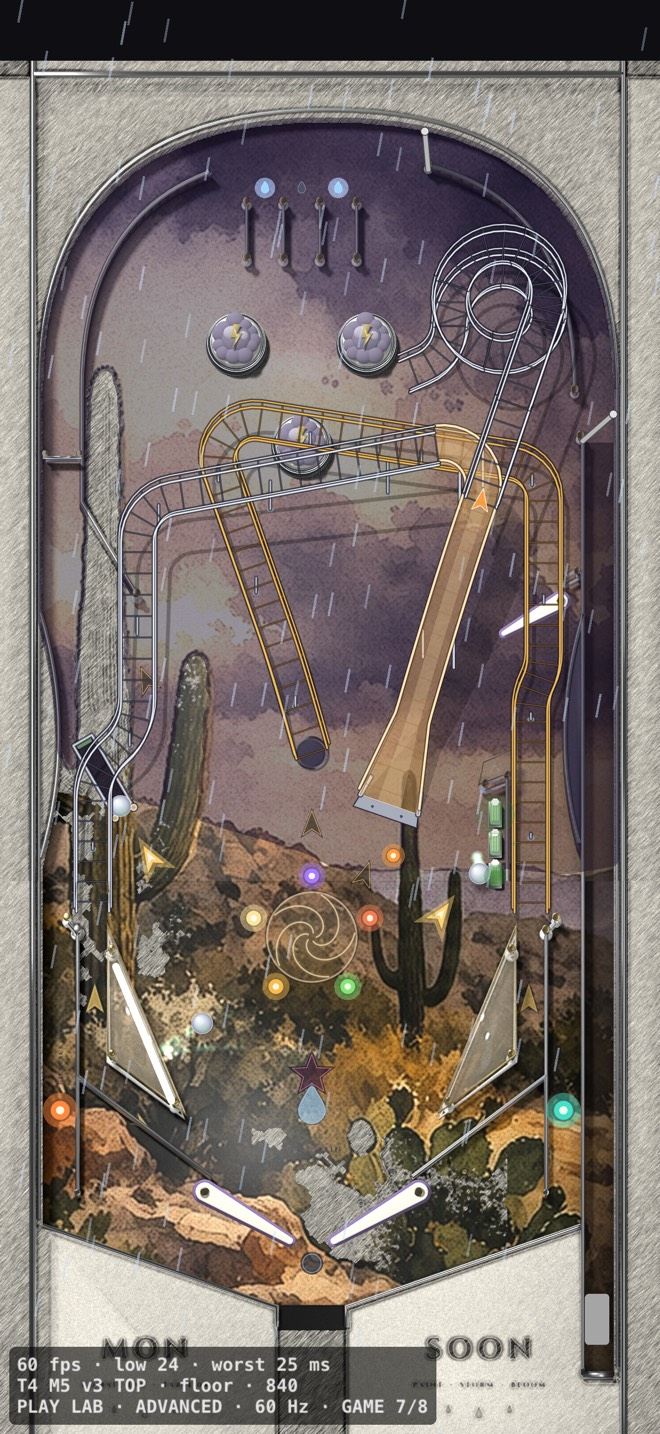
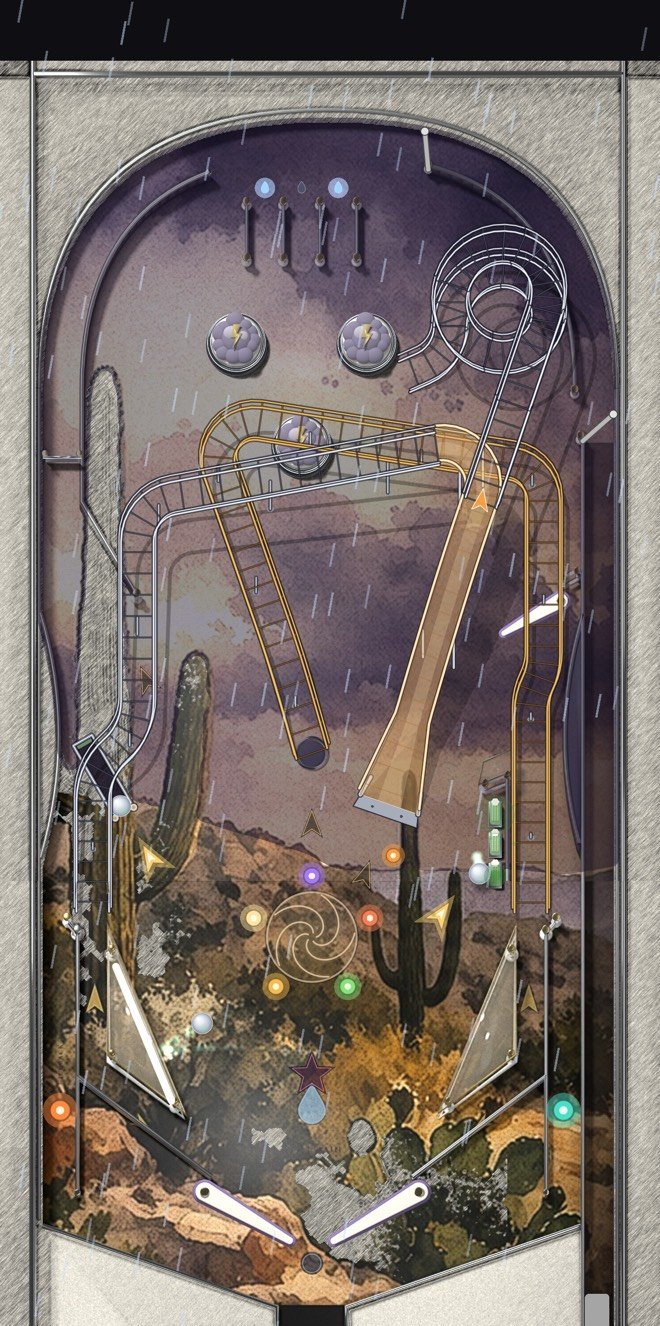
Hall of fame: crop the debug tag off the pictures
The lab screenshots carried the debug build tag (fps, build, PLAY LAB
line) in the bottom ~6 % of the frame, and the pictures ship in the
app. The four hof-*.jpg are cropped to 92.5 % of their height, and
tools/playlab_halloffame.py crops new pictures the same way (PIL, else
sips).

Claude-Session: https://claude.ai/code/session_01LZZuwhwfEftYSmahMAeEfo

diff --git a/tools/playlab_halloffame.py b/tools/playlab_halloffame.py
@@ -23,6 +23,9 @@ ROOT = os.path.dirname(os.path.dirname(os.path.abspath(__file__)))
 OUT_DIR = os.path.join(ROOT, "GreyInvasionPinball", "HallOfFame")
 OUT = os.path.join(OUT_DIR, "halloffame.json")
 SKILLS = ["beginner", "intermediate", "advanced", "expert"]
+# The lab screenshots carry the debug build tag (fps, build, PLAY LAB line) in the bottom ~6 % of the frame; the
+# picture ships in the app, so that strip is cropped off (2026-11-02, table agent). Keep 92.5 % of the height.
+KEEP_HEIGHT = 0.925
 
 
 def slug(table):
@@ -45,6 +48,28 @@ def picture_for(report_path, game):
     pick = next((c for c in caps if c.get("reason") == "gameEnd"), caps[-1])
     p = os.path.join(os.path.splitext(report_path)[0], pick.get("file", ""))
     return p if os.path.isfile(p) else None
+
+
+def crop_debug_strip(path):
+    """Crop the bottom (1 - KEEP_HEIGHT) of the picture, where the lab's debug tag sits. PIL if present, else sips."""
+    try:
+        from PIL import Image
+        im = Image.open(path).convert("RGB")
+        w, h = im.size
+        im.crop((0, 0, w, round(h * KEEP_HEIGHT))).save(path, quality=85)
+        return
+    except ImportError:
+        pass
+    if shutil.which("sips"):
+        out = subprocess.run(["sips", "-g", "pixelHeight", "-g", "pixelWidth", path],
+                             capture_output=True, text=True).stdout
+        dims = {k: int(v) for k, v in (ln.split(":") for ln in out.splitlines()[1:] if ":" in ln)}
+        h, w = dims.get("pixelHeight", 0), dims.get("pixelWidth", 0)
+        if h and w:
+            subprocess.run(["sips", "--cropToHeightWidth", str(round(h * KEEP_HEIGHT)), str(w),
+                            "--cropOffset", "0", "0", path], stdout=subprocess.DEVNULL, stderr=subprocess.DEVNULL)
+            return
+    print(f"  warning: couldn't crop the debug strip off {os.path.basename(path)} (no PIL or sips)")
 
 
 def main():
@@ -97,6 +122,7 @@ def main():
             shutil.copyfile(src, dst)
             if shutil.which("sips"):
                 subprocess.run(["sips", "-Z", "700", dst], stdout=subprocess.DEVNULL, stderr=subprocess.DEVNULL)
+            crop_debug_strip(dst)
             for e in entries.values():
                 e["picture"] = None
             top["picture"] = os.path.basename(dst)
